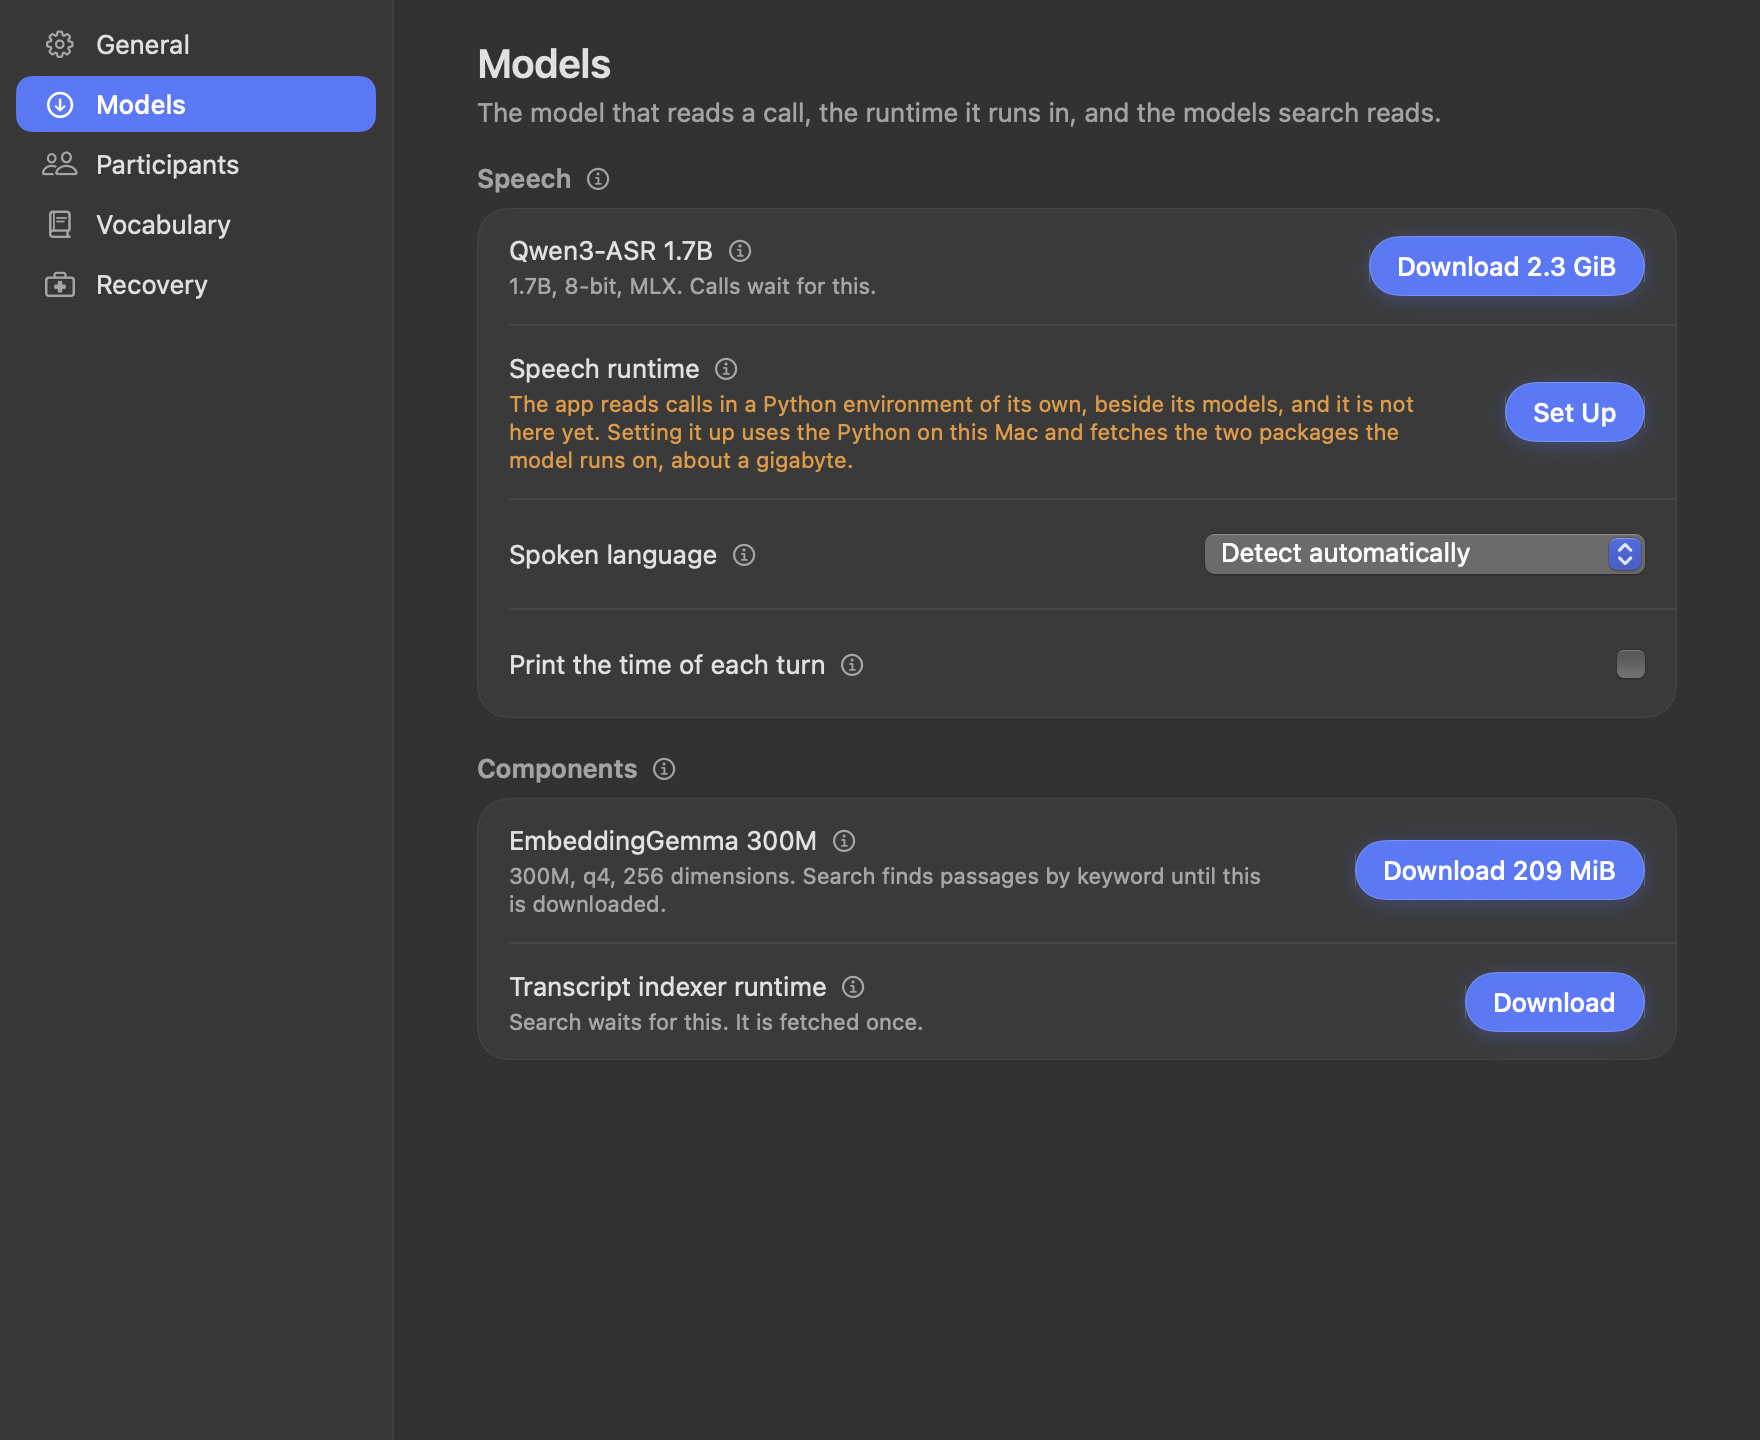
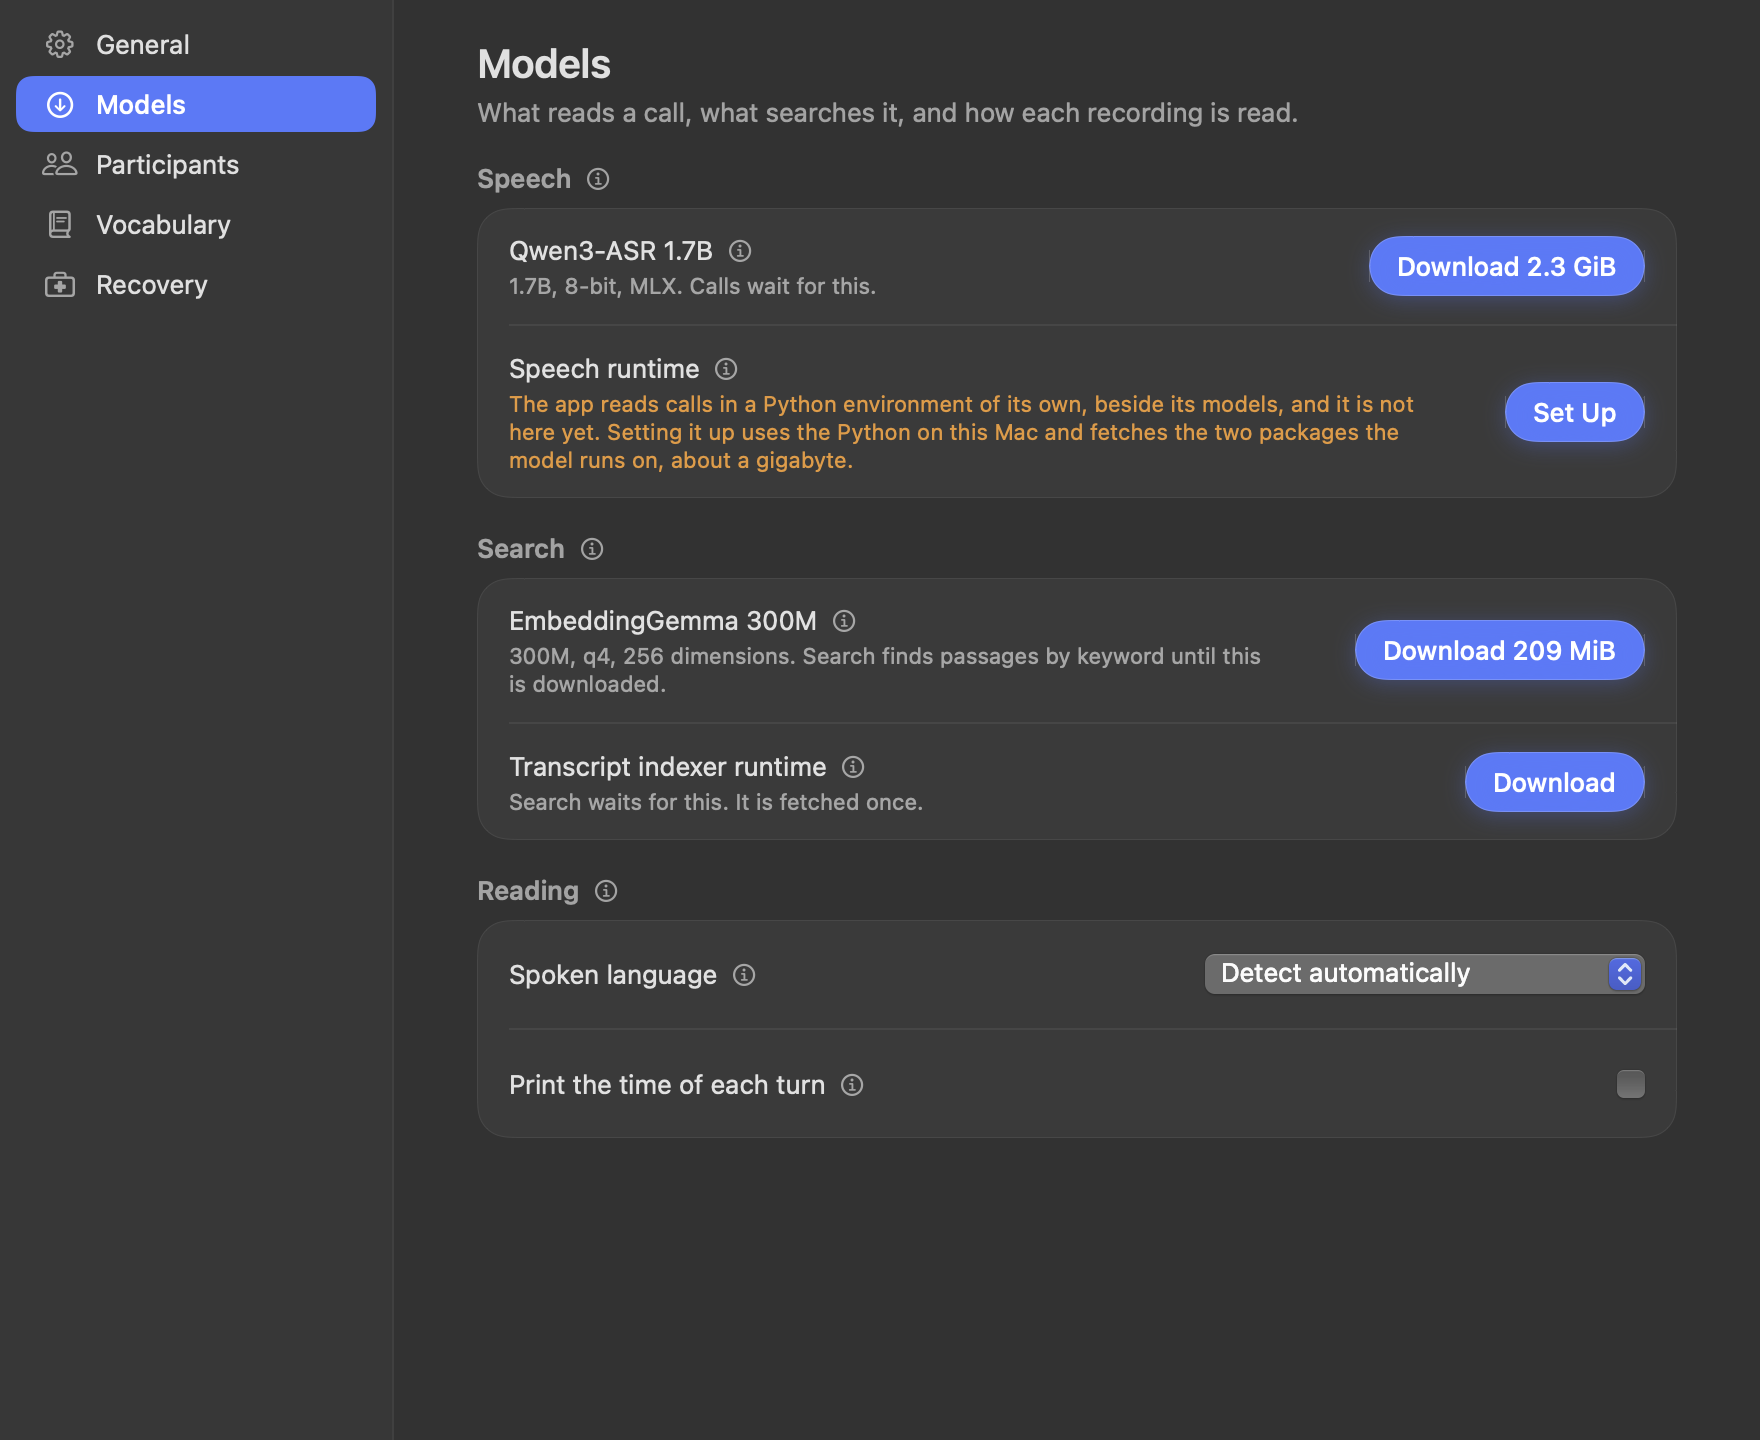
The models pane says one thing per card, and a cached copy is a copy of files
The reading preferences sat inside the card that holds the downloads, so a person looking for what is missing read a language menu and a switch in the middle of the answer, and a card named Components did not say what its two rows were for. The pane now has three cards: Speech, which holds the reader and the runtime it runs in; Search, which holds the embedding model and the indexer runtime; and Reading, which holds the language and the timestamps.

The cached-copy row was wrong, and its button was worse. A copy was decided from the folder alone, at models/<repository> -- and for the model the app installs under the models folder, that is the same folder today's copy lives in, one revision deeper. On this Mac the row reported the installed 2.3 GB model as a second copy nothing reads and offered a Move to Trash button that would have moved the copy being read from. A copy now counts only when the model's own files are at that path, its size is the sum of those files, and the move takes the files rather than the folder.

swift test: 654 tests in 85 suites passed.

diff --git a/Sources/CallRecorderApp/SupportingModelManager.swift b/Sources/CallRecorderApp/SupportingModelManager.swift
@@ -155,36 +155,78 @@ final class SupportingModelManager {
         return Self.directoryExists(model.directory(in: applicationDirectory, revision: previous))
     }
 
-    /// Copies of this model outside the folder Call Recorder manages.
+    /// The folder an earlier build cached this model under.
     ///
     /// A hub client caches files under whichever folder it was pointed at, and an earlier build
-    /// pointed it at the models folder itself, so this Mac can hold a complete second copy that
-    /// nothing reads. It is reported with its size; removing it is a decision, not a tidy-up.
-    func duplicateCopies(of model: SupportingModel) -> [URL] {
+    /// pointed it at the models folder itself, so that is where a second copy can be.
+    private func earlierCacheDirectory(of model: SupportingModel) -> URL? {
         let owner = String(model.repository.prefix { $0 != "/" })
-        guard !owner.isEmpty else { return [] }
+        guard !owner.isEmpty, owner.count < model.repository.count else { return nil }
         let name = String(model.repository.dropFirst(owner.count + 1))
-        let directory = applicationDirectory
+        return applicationDirectory
             .appending(path: "models", directoryHint: .isDirectory)
             .appending(path: owner, directoryHint: .isDirectory)
             .appending(path: name, directoryHint: .isDirectory)
-        return Self.directoryExists(directory) ? [directory] : []
+    }
+
+    /// The files of a cached copy that is really there, which is what an earlier build left.
+    ///
+    /// The folder alone does not prove a copy exists. The app installs today's copy at
+    /// `models/<repository>/<revision>`, so for the model whose install path is the models folder
+    /// the two paths are the same folder -- and a row that read the folder alone reported the copy
+    /// the app was reading with as a duplicate, sized it, and offered to move it to the Trash. The
+    /// files decide: a cached copy holds the model's files in the folder itself, and a copy the app
+    /// manages holds them one folder deeper, under the revision it was installed at.
+    func cachedCopyFiles(of model: SupportingModel) -> [URL] {
+        guard let directory = earlierCacheDirectory(of: model), Self.directoryExists(directory)
+        else { return [] }
+        let paths = Set(installedFilePaths(of: model) + model.files.map(\.path))
+        return paths.sorted()
+            .map { directory.appending(path: $0) }
+            .filter { Self.isRegularFile($0) }
     }
 
     func reclaimableBytes(for model: SupportingModel) -> Int64 {
         duplicateBytes[model.id] ?? 0
     }
 
-    /// Moves a stray copy to the Trash. Recoverable on purpose: Call Recorder did not write it.
+    /// Moves a cached copy's own files to the Trash. Recoverable on purpose: Call Recorder did not
+    /// write them.
+    ///
+    /// Only the files are moved, never the folder: for a model installed under the models folder
+    /// that folder is the app's own repository directory, and the copy inside it, under the
+    /// revision, is the one being read from.
     func reclaimDuplicates(of model: SupportingModel) {
-        for copy in duplicateCopies(of: model) {
+        let files = cachedCopyFiles(of: model)
+        guard !files.isEmpty else { return }
+        var moved = 0
+        for file in files {
             do {
-                try FileManager.default.trashItem(at: copy, resultingItemURL: nil)
-                duplicateBytes[model.id] = nil
-                statusMessage = "Moved the duplicate copy of " + model.displayName + " to the Trash."
+                try FileManager.default.trashItem(at: file, resultingItemURL: nil)
+                moved += 1
             } catch {
                 failingModels[model.id] = error.localizedDescription
             }
+        }
+        guard moved > 0 else { return }
+        duplicateBytes[model.id] = nil
+        removeEmptyDirectories(under: earlierCacheDirectory(of: model))
+        statusMessage = "Moved the cached copy of " + model.displayName + " to the Trash."
+    }
+
+    /// Removes the folders the move emptied, and keeps any that still hold something.
+    private func removeEmptyDirectories(under root: URL?) {
+        guard let root, Self.directoryExists(root) else { return }
+        guard
+            let enumerator = FileManager.default.enumerator(
+                at: root, includingPropertiesForKeys: [.isDirectoryKey]
+            )
+        else { return }
+        let directories = enumerator.compactMap { $0 as? URL }.filter(Self.directoryExists)
+        for directory in directories.sorted(by: { $0.path.count > $1.path.count }) {
+            let contents = (try? FileManager.default.contentsOfDirectory(atPath: directory.path)) ?? []
+            guard contents.isEmpty else { continue }
+            try? FileManager.default.removeItem(at: directory)
         }
     }
 
@@ -623,14 +665,12 @@ final class SupportingModelManager {
 
     private func measureDuplicates() {
         for model in models {
-            let copies = duplicateCopies(of: model)
-            guard !copies.isEmpty else {
+            let files = cachedCopyFiles(of: model)
+            guard !files.isEmpty else {
                 duplicateBytes[model.id] = nil
                 continue
             }
-            duplicateBytes[model.id] = copies.reduce(Int64(0)) { total, url in
-                total + Self.directorySize(url)
-            }
+            duplicateBytes[model.id] = files.reduce(Int64(0)) { $0 + Self.fileSize($1) }
         }
     }
 
@@ -645,19 +685,9 @@ final class SupportingModelManager {
         return (attributes?[.size] as? NSNumber)?.int64Value ?? 0
     }
 
-    private static func directorySize(_ url: URL) -> Int64 {
-        guard
-            let enumerator = FileManager.default.enumerator(
-                at: url,
-                includingPropertiesForKeys: [.fileSizeKey, .isRegularFileKey]
-            )
-        else { return 0 }
-        var total: Int64 = 0
-        for case let file as URL in enumerator {
-            let values = try? file.resourceValues(forKeys: [.fileSizeKey, .isRegularFileKey])
-            guard values?.isRegularFile == true else { continue }
-            total += Int64(values?.fileSize ?? 0)
-        }
-        return total
+    private static func isRegularFile(_ url: URL) -> Bool {
+        var isDirectory: ObjCBool = false
+        let exists = FileManager.default.fileExists(atPath: url.path, isDirectory: &isDirectory)
+        return exists && !isDirectory.boolValue
     }
 }

diff --git a/Tests/CallRecorderCoreTests/SupportingModelManagerTests.swift b/Tests/CallRecorderCoreTests/SupportingModelManagerTests.swift
@@ -126,20 +126,62 @@ struct SupportingModelManagerTests {
     }
 
     @Test func aSecondCopyOutsideTheManagedFolderIsReportedWithItsSize() async throws {
-        // Given a stray copy where an earlier build cached one.
+        // Given a copy where an earlier build cached one: the model's own files, written into the
+        // folder the hub client was pointed at rather than under a revision inside it.
         let workspace = makeWorkspace()
         defer { workspace.cleanUp() }
-        let stray = workspace.root.appending(path: "models/example/sample-model")
-        try FileManager.default.createDirectory(at: stray, withIntermediateDirectories: true)
-        try Data(repeating: 3, count: 4_096).write(to: stray.appending(path: "leftover.bin"))
+        let cached = workspace.root.appending(path: "models/example/sample-model")
+        for (path, bytes) in workspace.payloads {
+            let file = cached.appending(path: path)
+            try FileManager.default.createDirectory(
+                at: file.deletingLastPathComponent(),
+                withIntermediateDirectories: true
+            )
+            try bytes.write(to: file)
+        }
         let manager = workspace.manager()
 
         // When
         await manager.checkForUpdates()
 
-        // Then
-        #expect(manager.duplicateCopies(of: workspace.model).map(\.path) == [stray.path])
-        #expect(manager.reclaimableBytes(for: workspace.model) == 4_096)
+        // Then the files are reported with the space they take, and nothing else is.
+        #expect(
+            manager.cachedCopyFiles(of: workspace.model)
+                == workspace.model.files.map { cached.appending(path: $0.path) }
+        )
+        #expect(manager.reclaimableBytes(for: workspace.model) == workspace.model.totalBytes)
+
+        // When the copy is moved to the Trash
+        manager.reclaimDuplicates(of: workspace.model)
+
+        // Then its files are gone and the row has nothing left to offer.
+        #expect(manager.cachedCopyFiles(of: workspace.model).isEmpty)
+        #expect(manager.reclaimableBytes(for: workspace.model) == 0)
+    }
+
+    @Test func theFolderAModelIsInstalledUnderIsNotACachedCopy() async throws {
+        // Given a model the app installs under the models folder itself, which is the folder a hub
+        // client caches it in as well: today's copy is at `models/<owner>/<name>/<revision>`, and
+        // an earlier build's copy would be at `models/<owner>/<name>`. Reading the folder alone
+        // reported the copy being read from as a duplicate, sized it, and offered a button that
+        // would have moved the model itself to the Trash.
+        let workspace = makeWorkspace(installPath: "models")
+        defer { workspace.cleanUp() }
+        let manager = workspace.manager()
+        manager.download(workspace.model)
+        await waitForDownload(manager, workspace.model)
+
+        // Then the installed copy is not a cached copy, and there is nothing to reclaim.
+        #expect(manager.state(for: workspace.model).isInstalled)
+        #expect(manager.cachedCopyFiles(of: workspace.model).isEmpty)
+        #expect(manager.reclaimableBytes(for: workspace.model) == 0)
+
+        // And reclaiming leaves every file of the installed revision where it is.
+        manager.reclaimDuplicates(of: workspace.model)
+        let directory = workspace.model.directory(in: workspace.root)
+        for file in workspace.model.files {
+            #expect(FileManager.default.fileExists(atPath: directory.appending(path: file.path).path))
+        }
     }
 
     @Test func deletingRemovesEveryRevisionAndTheRecord() async throws {
@@ -232,7 +274,8 @@ struct SupportingModelManagerTests {
 
     private func makeWorkspace(
         tamperingWith tampered: String? = nil,
-        weightsNamed weights: String? = nil
+        weightsNamed weights: String? = nil,
+        installPath: String = "models/sample"
     ) -> Workspace {
         let revision = "aaaaaaaaaaaaaaaaaaaaaaaaaaaaaaaaaaaaaaaa"
         var payloads: [String: Data] = [
@@ -253,7 +296,7 @@ struct SupportingModelManagerTests {
             detail: "A model the tests own.",
             repository: "example/sample-model",
             revision: revision,
-            installPath: "models/sample",
+            installPath: installPath,
             versionLabel: "sample",
             files: files
         )

diff --git a/Sources/CallRecorderApp/SettingsView.swift b/Sources/CallRecorderApp/SettingsView.swift
@@ -786,7 +786,7 @@ struct ModelSettingsView: View {
     var body: some View {
         SettingsPane(
             title: "Models",
-            subtitle: "The model that reads a call, the runtime it runs in, and the models search reads."
+            subtitle: "What reads a call, what searches it, and how each recording is read."
         ) {
             // Reading is one decision with two halves: the weights, and the environment that runs
             // them. They are one card, because a Mac missing either cannot transcribe, and the
@@ -805,7 +805,27 @@ struct ModelSettingsView: View {
                     CRSettingsDivider()
                 }
                 speechRuntimeRow
+            }
+
+            CRSettingsCard(
+                title: "Search",
+                info: "The embedding model finds passages by meaning, and the runtime builds the "
+                    + "index that search and Codex read. A download is accepted only when its "
+                    + "published hash matches the publisher's."
+            ) {
+                if let component = embeddingComponent {
+                    componentRow(component)
+                    componentNotes(component)
+                }
                 CRSettingsDivider()
+                indexerRuntimeRow
+            }
+
+            CRSettingsCard(
+                title: "Reading",
+                info: "How each recording is read: the language the model is held to, and whether a "
+                    + "saved transcript prints the time of each turn."
+            ) {
                 CRSettingsRow(
                     title: "Spoken language",
                     info: "The model decides the language of each recording unless it is told one. "
@@ -832,21 +852,6 @@ struct ModelSettingsView: View {
                     Toggle("", isOn: $model.settings.transcriptTimestamps)
                         .labelsHidden()
                 }
-            }
-
-            CRSettingsCard(
-                title: "Components",
-                info: "The models the app keeps beside the transcription model: the one that turns "
-                    + "text into vectors for search, and the runtime the indexer and the MCP server "
-                    + "run on. A download is accepted only when its published hash matches the "
-                    + "publisher's."
-            ) {
-                if let component = embeddingComponent {
-                    componentRow(component)
-                    componentNotes(component)
-                }
-                CRSettingsDivider()
-                indexerRuntimeRow
             }
         }
         .task {
@@ -1122,9 +1127,10 @@ struct ModelSettingsView: View {
         if manager.reclaimableBytes(for: component) > 0 {
             CRSettingsDivider()
             CRSettingsRow(
-                title: "A duplicate copy is taking up space",
-                detail: "An earlier build cached a second copy of this model that nothing reads. "
-                    + "Moving it to the Trash frees "
+                title: "A cached copy is taking up space",
+                detail: "An earlier build cached a second copy of this model's files. The app "
+                    + "reads its own copy at the revision it recorded, so moving these to the "
+                    + "Trash frees "
                     + ModelSizeLabel.file(bytes: manager.reclaimableBytes(for: component)) + ".",
                 warning: true
             ) {
